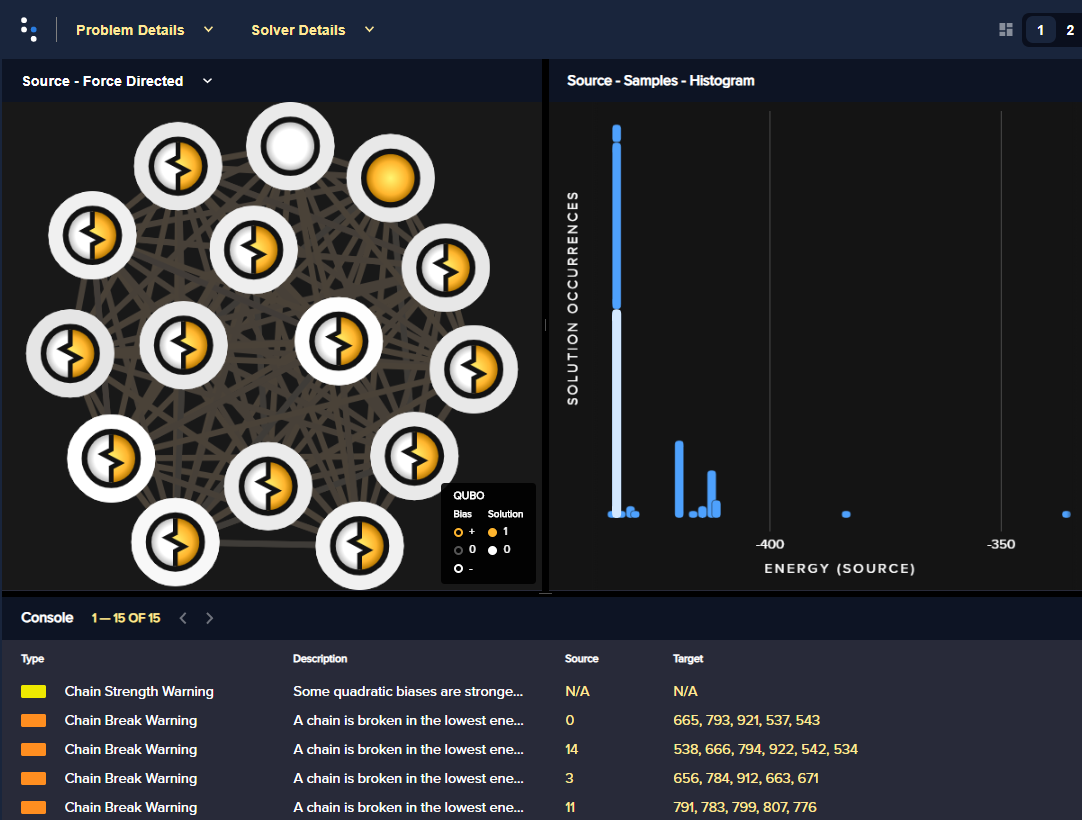
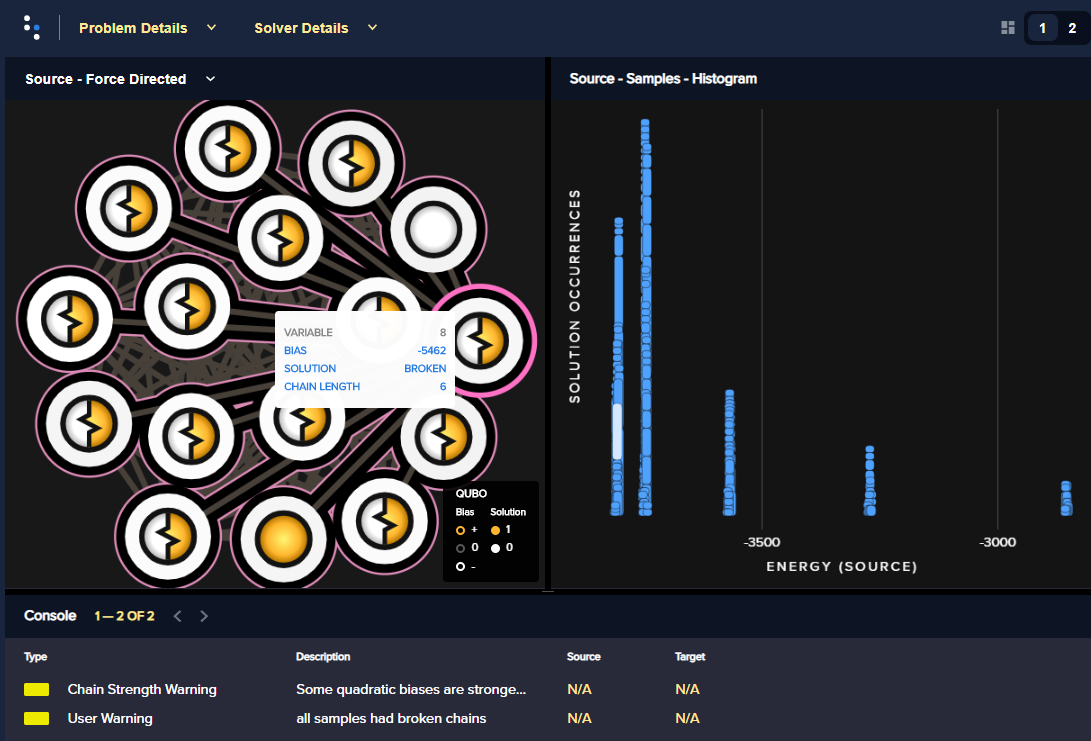
Update problem to even # of nodes

diff --git a/docs/examples/inspector_graph_partitioning.rst b/docs/examples/inspector_graph_partitioning.rst
@@ -5,8 +5,9 @@ Using the Problem Inspector
 ===========================
 
 This example solves a `graph partitioning <https://en.wikipedia.org/wiki/Graph_partition>`_
-problem to show how D-Wave's `problem inspector </docs_inspector>` tool can help
-you evaluate the minor-embedding used in your problem submissions to a QPU.
+problem to show how D-Wave's :ref:`inspector` tool can help
+you evaluate the :term:`minor-embedding` used in your problem submissions to the
+quantum computer.
 
 Example Requirements
 ====================
@@ -26,15 +27,15 @@ meets these requirements.
 Solution Steps
 ==============
 
-:ref:`solving_problems` describes the process of solving problems on the quantum
+The :ref:`solving_problems` section describes the process of solving problems on the quantum
 computer in two steps: (1) Formulate the problem as a :term:`binary quadratic model` (BQM)
 and (2) Solve the BQM with a D-wave system or classical :term:`sampler`. In this example,
 a :term:`QUBO` is formulated with simple math, the problem is submitted naively to
 the QPU, its minor embedding examined using the problem inspector, and the
 submission improved.
 
-A Problem Graph
-===============
+Formulate the Problem
+=====================
 
 This example uses a synthetic problem for illustrative purposes: a NetworkX
 generated graph,
@@ -47,7 +48,7 @@ equal sets with a minimum number of edges between the two groups.
     import networkx as nx
 
     graph_nodes = 16
-    G = nx.random_geometric_graph(n=graph_nodes, radius=.55, dim=2)
+    G = nx.random_geometric_graph(n=graph_nodes, radius=.5, dim=2)
 
 .. figure:: ../_static/inspector_rand_geom_plot.png
    :name: InspectorRandGeomProblem
@@ -57,8 +58,8 @@ equal sets with a minimum number of edges between the two groups.
 
    One arbitrary generation of the problem graph.
 
-Formulate the Problem as a BQM
-==============================
+Reformulate the Problem Graph as a BQM
+--------------------------------------
 
 This example formulates the BQM as a QUBO using the same steps described in
 detail in the `Graph Partitioning <https://github.com/dwave-examples/graph-partitioning>`_
@@ -70,7 +71,7 @@ repository.
     from collections import defaultdict
     from itertools import combinations
 
-    gamma = 80
+    gamma = 60
 
     Q = defaultdict(int)
 
@@ -86,12 +87,13 @@ repository.
     for i, j in combinations(G.nodes, 2):
     	Q[(i,j)] += 2*gamma
 
-Print the maximum and minimum QUBO values:
+Print the range of values for the generated QUBO's elements:
 
->>> print("Maximum element is {:.2f} and minimum is {:.2f}.".format(max(Q.values(), min(Q.values())))
+>>> print("Maximum element is {:.2f} and minimum is {:.2f}.".format(max(Q.values()), min(Q.values())))
+Maximum element is 120.00 and minimum is -898.00.
 
-Submit to the Quantum Computer
-==============================
+Solve the Problem by Sampling
+=============================
 
 .. note:: Importing the problem inspector activates for the session the capture of
    data such as problems sent to the QPU and returned responses, relevant details of
@@ -108,7 +110,9 @@ Submit to the Quantum Computer
     import dwave.inspector
 
     sampler = EmbeddingComposite(DWaveSampler(solver={'qpu': True}))
-    response = sampler.sample_qubo(Q, num_reads=1000)
+
+    num_reads = 1000
+    response = sampler.sample_qubo(Q, num_reads=num_reads)
 
 Check the best returned answer:
 
@@ -116,53 +120,75 @@ Check the best returned answer:
            sum(response.first.sample.values()),
            graph_nodes - sum(response.first.sample.values()),
            response.first.energy))
+Number of nodes in one set is 8, in the other, 8. Energy is -3813.0.
 
-A simple evaluation of the overall quality of the returned samples:
+One simple measure of the overall quality of the returned samples is the percentage
+of samples based on chains with high breakage rates. Here a rate above one third is chosen:
 
->>> print(np.count_nonzero(response.record.chain_break_fraction > 0.33)
-
+>>> print("Percentage of samples with high rates of breaks is {}.".format(
+           np.count_nonzero(response.record.chain_break_fraction > 0.33)/num_reads*100))
+Percentage of samples with high rates of breaks is 78.7.
 
 Inspect the Submission
-========================
+----------------------
 
+Use the problem inspector on the returned samples:
+
+.. code-block:: python
+
+    dwave.inspector.show(response)
 
 .. figure:: ../_static/inspector_rand_geom_broken_chains.png
    :name: InspectorRandGeomBrokenChains
    :alt: image
    :align: center
-   :scale: 70 %
+   :scale: 50 %
 
-   Default chain strength: solutions.
+   Problem inspector displaying the logical problem: the problem graph, on the left, and the returned energies hysteresis, on the right, for a submission with the chain strength set to its default value. For one arbitrary solution, selected by clicking an energy bar on the right (highlighted white), all values but two are shown as being based on broken chains. The selected variable on the left, variable :math:`8`, is shown to be represented on the QPU by a chain of 6 qubits.
+
+You can select a view in the displayed problem that shows the broken chains on the
+QPU qubits:
 
 .. figure:: ../_static/inspector_rand_geom_broken_chains_target.png
    :name: InspectorRandGeomBrokenChains1
    :alt: image
    :align: center
-   :scale: 70 %
+   :scale: 50 %
 
-   Default chain strength: broken chain.
+   Problem inspector displaying the embedded problem, with broken chains highlighted, for a submission with the chain strength set to its default value.
+
+Using the same logic described in the
+`Graph Partitioning <https://github.com/dwave-examples/graph-partitioning>`_
+code example, the problem is resubmitted using a higher chain strength:
+
+.. code-block:: python
+
+    response = sampler.sample_qubo(Q, num_reads=num_reads, chain_strength=1000)
+
+Check the best returned answer and percentage of samples based on chains with breakage
+rates of over 33 percent:
+
+>>> print("Number of nodes in one set is {}, in the other, {}. Energy is {}.".format(
+           sum(response.first.sample.values()),
+           graph_nodes - sum(response.first.sample.values()),
+           response.first.energy))
+Number of nodes in one set is 8, in the other, 8. Energy is -3813.0.
+...
+>>> print("Percentage of samples with high rates of breaks is {}.".format(
+           np.count_nonzero(response.record.chain_break_fraction > 0.33)/num_reads*100))
+Percentage of samples with high rates of breaks is 0.0.
+
+Again use the problem inspector on the returned samples:
+
+.. code-block:: python
+
+    dwave.inspector.show(response)
 
 
 .. figure:: ../_static/inspector_rand_geom_no_broken_chains.png
    :name: InspectorRandGeomNoBrokenChains
    :alt: image
    :align: center
-   :scale: 70 %
+   :scale: 50 %
 
-   Default chain strength: chain_strength=100.
-
-Solve the Problem Using Hybrid Resources
-========================================
-
-Once you have a hybrid workflow, you can run and tune it within the dwave-hybrid framework
-or convert it to a `dimod` sampler.
-
-.. code-block:: python
-
-    # Convert to dimod sampler and run workflow
-    result = hybrid.HybridSampler(workflow).sample(bqm)
-
-While the tabu search runs locally, one or more subproblems are sent to the QPU.
-
->>> print("Solution: sample={}".format(result.first)) # doctest: +SKIP
-Solution: sample=Sample(sample={0: -1, 1: -1, 2: -1, 3: 1, 4: -1, ... energy=-169.0, num_occurrences=1)
+   Problem inspector displaying the logical problem: graph and the returned energies hysteresis for a submission with the chain strength set to :math:`1000`. For one arbitrary solution, selected by clicking an energy bar on the right (highlighted white), all values are shown as being based on non-broken chains. 

diff --git a/docs/overview/solving_problems.rst b/docs/overview/solving_problems.rst
@@ -1,10 +1,10 @@
 .. _solving_problems:
 
-This section explains some of the basics of how you can use D-Wave quantum computers
-to solve problems and how Ocean tools can help.
-
 How a D-Wave System Solves Problems
 ===================================
+
+This section explains some of the basics of how you can use D-Wave quantum computers
+to solve problems and how Ocean tools can help.
 
 For quantum computing, as for classical, solving a problem requires that it
 be formulated in a way the computer and its software understand.
